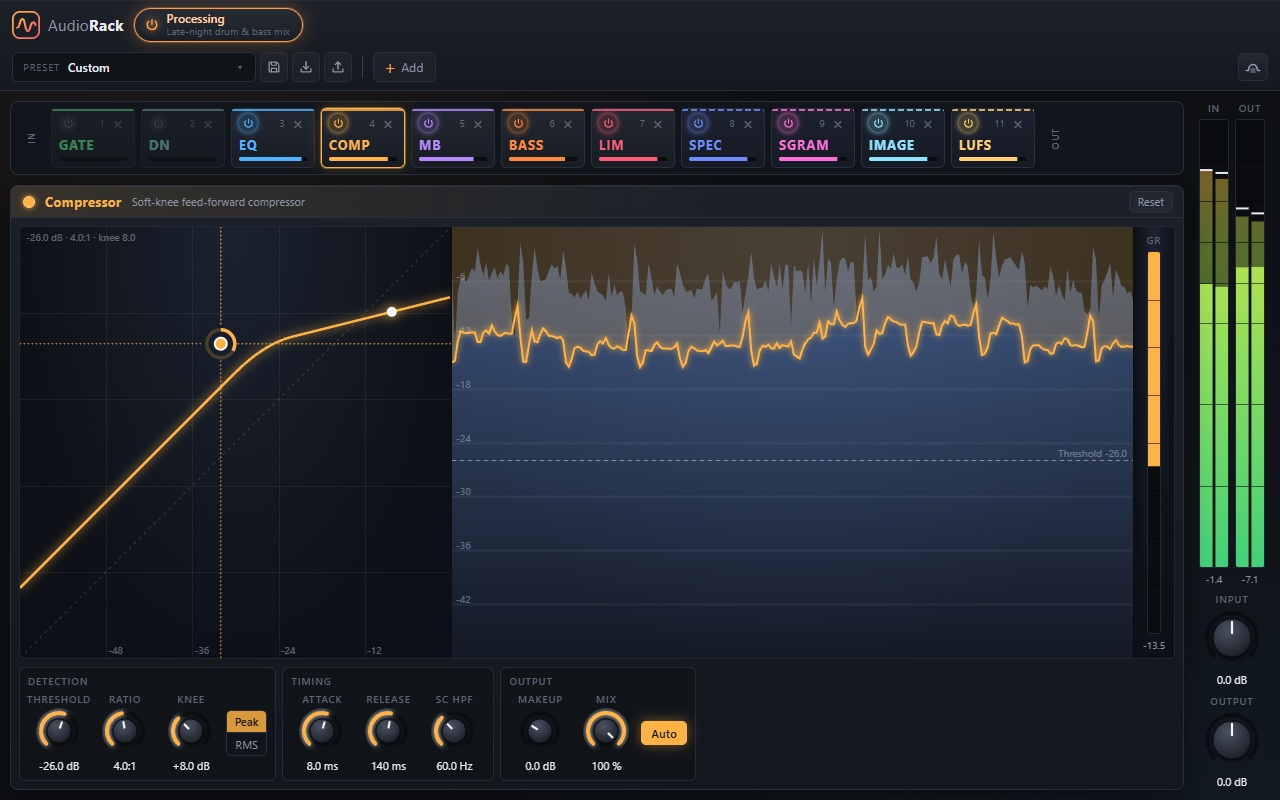
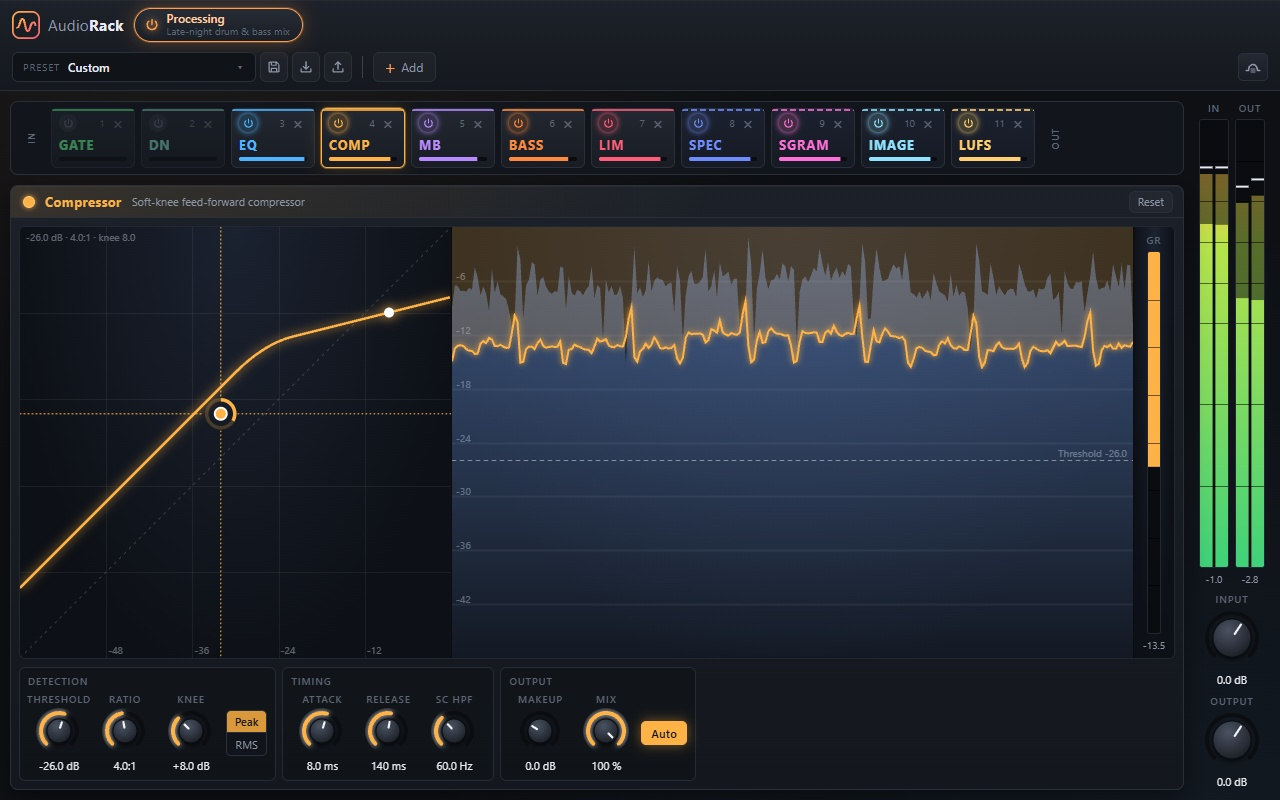
Raise the master gain to +36 dB, steady compressor node; release 0.9.3
- The rack's input and output knobs reach from -60 to +36 dB instead of
  -60 to +24 dB, to bring a very quiet tab up
- The compressor's node sits at the threshold on the level scale, no
  longer at the threshold plus makeup: makeup moves only the curve, so
  with auto makeup, which follows the threshold and the ratio, dragging
  sideways no longer moves the node up and down and dragging up and
  down follows the pointer. Compressor screenshots recaptured

diff --git a/src/ui/editors/CompressorEditor.tsx b/src/ui/editors/CompressorEditor.tsx
@@ -55,9 +55,10 @@ type CurvePatch = { thresholdDb?: number; ratio?: number; kneeDb?: number };
 
 /**
  * The node of an editable transfer curve: across the display for the ratio along its knob scale,
- * from 1:1 at the left to ∞ at the right, and up and down at the threshold's output level. Its
- * ring sets the knee; its guides run across for the threshold and from top to bottom for the
- * ratio.
+ * from 1:1 at the left to ∞ at the right, and up and down for the threshold on the level scale.
+ * Its ring sets the knee; its guides run across for the threshold and from top to bottom for the
+ * ratio. Makeup gain moves the curve but not the node, so each axis reads one setting only, even
+ * with auto makeup, which follows the threshold and the ratio.
  */
 function curveNode(
     curve: CurveSettings,
@@ -65,16 +66,16 @@ function curveNode(
     height: number,
     onChange: (patch: CurvePatch) => void,
 ): ControlNode<CurvePatch> {
-    const { thresholdDb, ratio, kneeDb, makeupDb } = curve;
+    const { thresholdDb, ratio, kneeDb } = curve;
     const scale = transferScale(CURVE_MIN, width, height);
     const track = width - 2 * RATIO_INSET;
     return {
         x: RATIO_INSET + toNormalized(SPECS.ratio, ratio) * track,
-        y: scale.toY(thresholdDb + makeupDb),
+        y: scale.toY(thresholdDb),
         atX: (x) => ({
             ratio: specValue(SPECS.ratio, fromNormalized(SPECS.ratio, (x - RATIO_INSET) / track)),
         }),
-        atY: (y) => ({ thresholdDb: specValue(SPECS.thresholdDb, scale.yToDb(y) - makeupDb) }),
+        atY: (y) => ({ thresholdDb: specValue(SPECS.thresholdDb, scale.yToDb(y)) }),
         apply: onChange,
         ring: {
             spec: SPECS.kneeDb,

diff --git a/src/shared/effects.ts b/src/shared/effects.ts
@@ -477,8 +477,11 @@ export const SPECS = {
         scale: 'log',
     },
     harmonics: { label: 'Harmonics', min: 0, max: 100, default: 25, unit: '%' },
-    /** The rack's input and output gain; as low as the Utility's, to turn a loud tab right down. */
-    masterDb: { label: 'Gain', min: -60, max: 24, default: 0, unit: 'dB', decimals: 1 },
+    /**
+     * The rack's input and output gain: low enough to turn a loud tab right down, high enough to
+     * bring a very quiet one up.
+     */
+    masterDb: { label: 'Gain', min: -60, max: 36, default: 0, unit: 'dB', decimals: 1 },
     branchGainDb: { label: 'Level', min: -48, max: 12, default: 0, unit: 'dB', decimals: 1 },
     tilt: { label: 'Tilt', min: 0, max: 6, default: 4.5, unit: 'dB/oct', decimals: 1 },
     smoothing: { label: 'Smoothing', min: 0, max: 100, default: 60, unit: '%' },

diff --git a/tests/state.test.ts b/tests/state.test.ts
@@ -34,7 +34,7 @@ describe('rack normalization', () => {
             ],
         });
         expect(rack.bypass).toBe(false);
-        expect(rack.inputDb).toBe(24);
+        expect(rack.inputDb).toBe(36);
         expect(rack.outputDb).toBe(-60);
         expect(rack.chain.map((effect) => effect.type)).toEqual(['compressor', 'eq', 'multiband']);
         expect(new Set(rack.chain.map((effect) => effect.id)).size).toBe(3);
